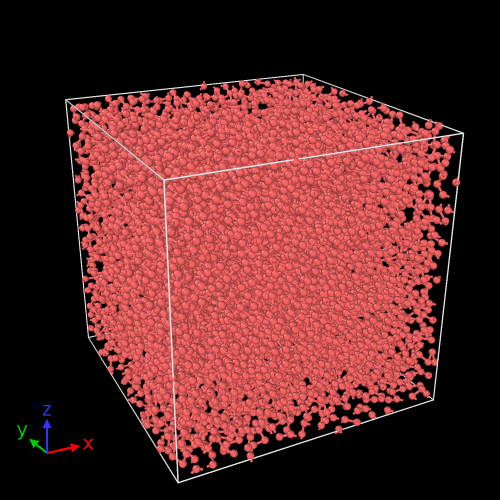
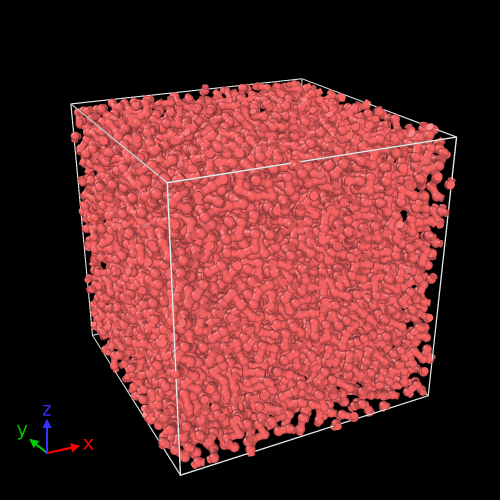
02Render

diff --git a/02Render/render.py b/02Render/render.py
@@ -6,11 +6,11 @@ pipeline.add_to_scene()
 
 from ovito.vis import ParticlesVis
 particle_vis=pipeline.source.data.particles.vis
-particle_vis.radius=0.3
+particle_vis.radius=0.4
 
 from ovito.vis import BondsVis
 bond_vis=pipeline.source.data.particles.bonds.vis
-bond_vis.width=0.2
+bond_vis.width=0.6
 
 cell_vis=pipeline.source.data.cell.vis
 cell_vis.rendering_color=(1.0,1.0,1.0)

diff --git a/02Render/README.md b/02Render/README.md
@@ -27,11 +27,11 @@ data ファイルを読み込み後の `pipeline.add_to_scene()` が大事。
 ```
 from ovito.vis import ParticlesVis
 particle_vis=pipeline.source.data.particles.vis
-particle_vis.radius=0.3
+particle_vis.radius=0.4
 
 from ovito.vis import BondsVis
 bond_vis=pipeline.source.data.particles.bonds.vis
-bond_vis.width=0.2
+bond_vis.width=0.6
 
 cell_vis=pipeline.source.data.cell.vis
 cell_vis.rendering_color=(1.0,1.0,1.0)
